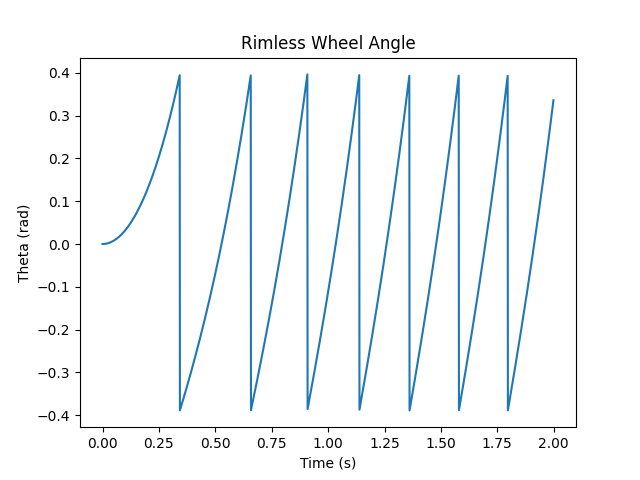
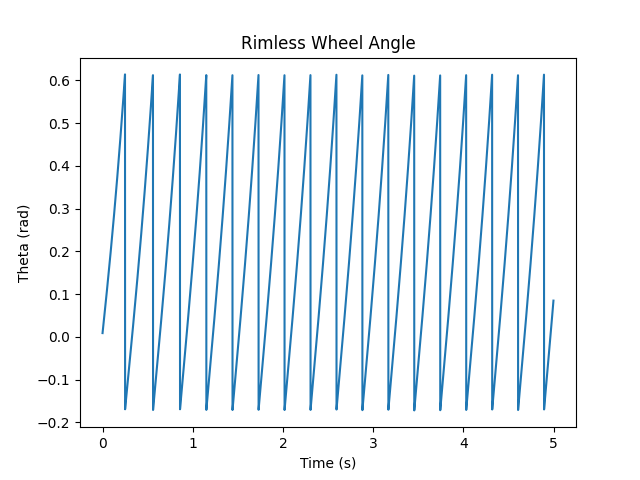
endofday_sep3_rimlesswheel

diff --git a/assignment_1/rimless_wheel.py b/assignment_1/rimless_wheel.py
@@ -4,23 +4,6 @@ import numpy as np
 from integrators import rk4
 
 
-def rimless_wheel_continuous(t, state, params):
-    """
-    Continuous dynamics of the rimless wheel while pivoting
-    on the stance spoke.
-    """
-    theta, theta_dot = state
-
-    g = params["gravity"]
-    l = params["spoke_length"]
-    gamma = params["slope_angle"]
-
-    # Equation of motion
-    theta_ddot = (g / l) * np.sin(theta+gamma)
-
-    return np.array([theta_dot, theta_ddot])
-
-
 def generate_params():
     return {
         "gravity": 9.81,
@@ -29,28 +12,43 @@ def generate_params():
         "num_spokes": 8
     }
 
+def rimless_wheel_continuous(t, state, params):
+    """
+    Continuous dynamics of the rimless wheel while pivoting
+    on the stance spoke.
+
+    theta is measured from the global upward vertical,
+    positive in the downhill direction.
+    """
+    theta, theta_dot = state
+
+    g = params["gravity"]
+    l = params["spoke_length"]
+    gamma = params["slope_angle"]
+
+    theta_ddot = (g / l) * np.sin(theta + gamma)
+
+    return np.array([theta_dot, theta_ddot])
+
 
 def detect_impact(wheel_state, params):
     """
-    Return True when the stance spoke reaches the impact angle +alpha.
+    Detect when the next spoke reaches the ground.
     """
     theta, theta_dot = wheel_state
 
     num_spokes = params["num_spokes"]
     alpha = np.pi / num_spokes
+    gamma = params["slope_angle"]
 
-    return theta >= alpha
+    impact_angle = -gamma + 2 * alpha
+
+    return theta >= impact_angle
 
 
 def spoke_reset(wheel_state, params):
     """
     Reset dynamics at impact.
-
-    The new stance spoke is 2*alpha away from the old one,
-    so the coordinate changes by -2*alpha.
-
-    Angular momentum conservation gives:
-        theta_dot_plus = theta_dot_minus * cos(2*alpha)
     """
     theta, theta_dot = wheel_state
 
@@ -99,18 +97,23 @@ def simulate_rimless_wheel(initial_state, params, time_step, total_time):
     return times, angles, angular_velocities
 
 
+
+# Sanity Checks
+
 params = generate_params()
-params["slope_angle"] = np.deg2rad(40)
+params["slope_angle"] = np.deg2rad(10)
 
-initial_state = np.array([np.deg2rad(0), 0.0])
+initial_state = np.array([np.deg2rad(0.5), 2])
 
+# Run simulation
 times, angles, angular_velocities = simulate_rimless_wheel(
     initial_state,
     params,
     time_step=0.001,
-    total_time=2.0
+    total_time=5.0
 )
 
+# Plot angle vs time
 plt.plot(times, angles)
 plt.xlabel("Time (s)")
 plt.ylabel("Theta (rad)")
@@ -118,24 +121,61 @@ plt.title("Rimless Wheel Angle")
 plt.savefig("Rimless Wheel Angle")
 plt.close()
 
-'''
-params = generate_params()
+
+
+# Impact/reset check
 
 alpha = np.pi / params["num_spokes"]
+gamma = params["slope_angle"]
 
-before = np.array([alpha, 2.0])
+impact_angle = -gamma + 2 * alpha
+
+# Artificial pre-impact state
+theta_dot_before = 2.0
+before = np.array([impact_angle, theta_dot_before])
+
+# Apply impact reset
 after = spoke_reset(before, params)
 
-print("Before:", before)
-print("After:", after)
-'''
-'''
-for N in [4, 8, 16]:
+print("\nImpact reset sanity check:")
+print(f"Before: theta = {np.rad2deg(before[0]):.2f}°, "
+        f"theta_dot = {before[1]:.3f} rad/s")
+
+print(f"After:  theta = {np.rad2deg(after[0]):.2f}°, "
+        f"theta_dot = {after[1]:.3f} rad/s")
+
+# Expected values
+expected_theta = impact_angle - 2 * alpha
+expected_theta_dot = theta_dot_before * np.cos(2 * alpha)
+
+print(f"Expected theta = {np.rad2deg(expected_theta):.2f}°")
+print(f"Expected theta_dot = {expected_theta_dot:.3f} rad/s")
+
+
+
+# slope angle sweep
+for gamma_deg in [0, 50, 89]:
     params = generate_params()
-    params["num_spokes"] = N
+    params["slope_angle"] = np.deg2rad(gamma_deg)
 
-    alpha = np.pi / N
+    initial_state_sweep = np.array([np.deg2rad(0), 2])
 
-    print("N =", N, "alpha =", alpha)
-'''
+    times, angles, angular_velocities = simulate_rimless_wheel(
+        initial_state_sweep,
+        params,
+        time_step=0.001,
+        total_time=5.0
+    )
 
+    # Angle relative to the slope normal
+    normal_angle = angles + params["slope_angle"]
+
+    plt.plot(times, angles, label=f"{gamma_deg}°: theta (global vertical)")
+    plt.plot(times, normal_angle, "--",
+            label=f"{gamma_deg}°: angle from normal")
+
+plt.xlabel("Time (s)")
+plt.ylabel("Angle (rad)")
+plt.title("Rimless Wheel: Global Angle and Angle Relative to Slope Normal")
+plt.savefig("Rimless Wheel: Global Angle and Angle Relative to Slope Normal")
+plt.close()
